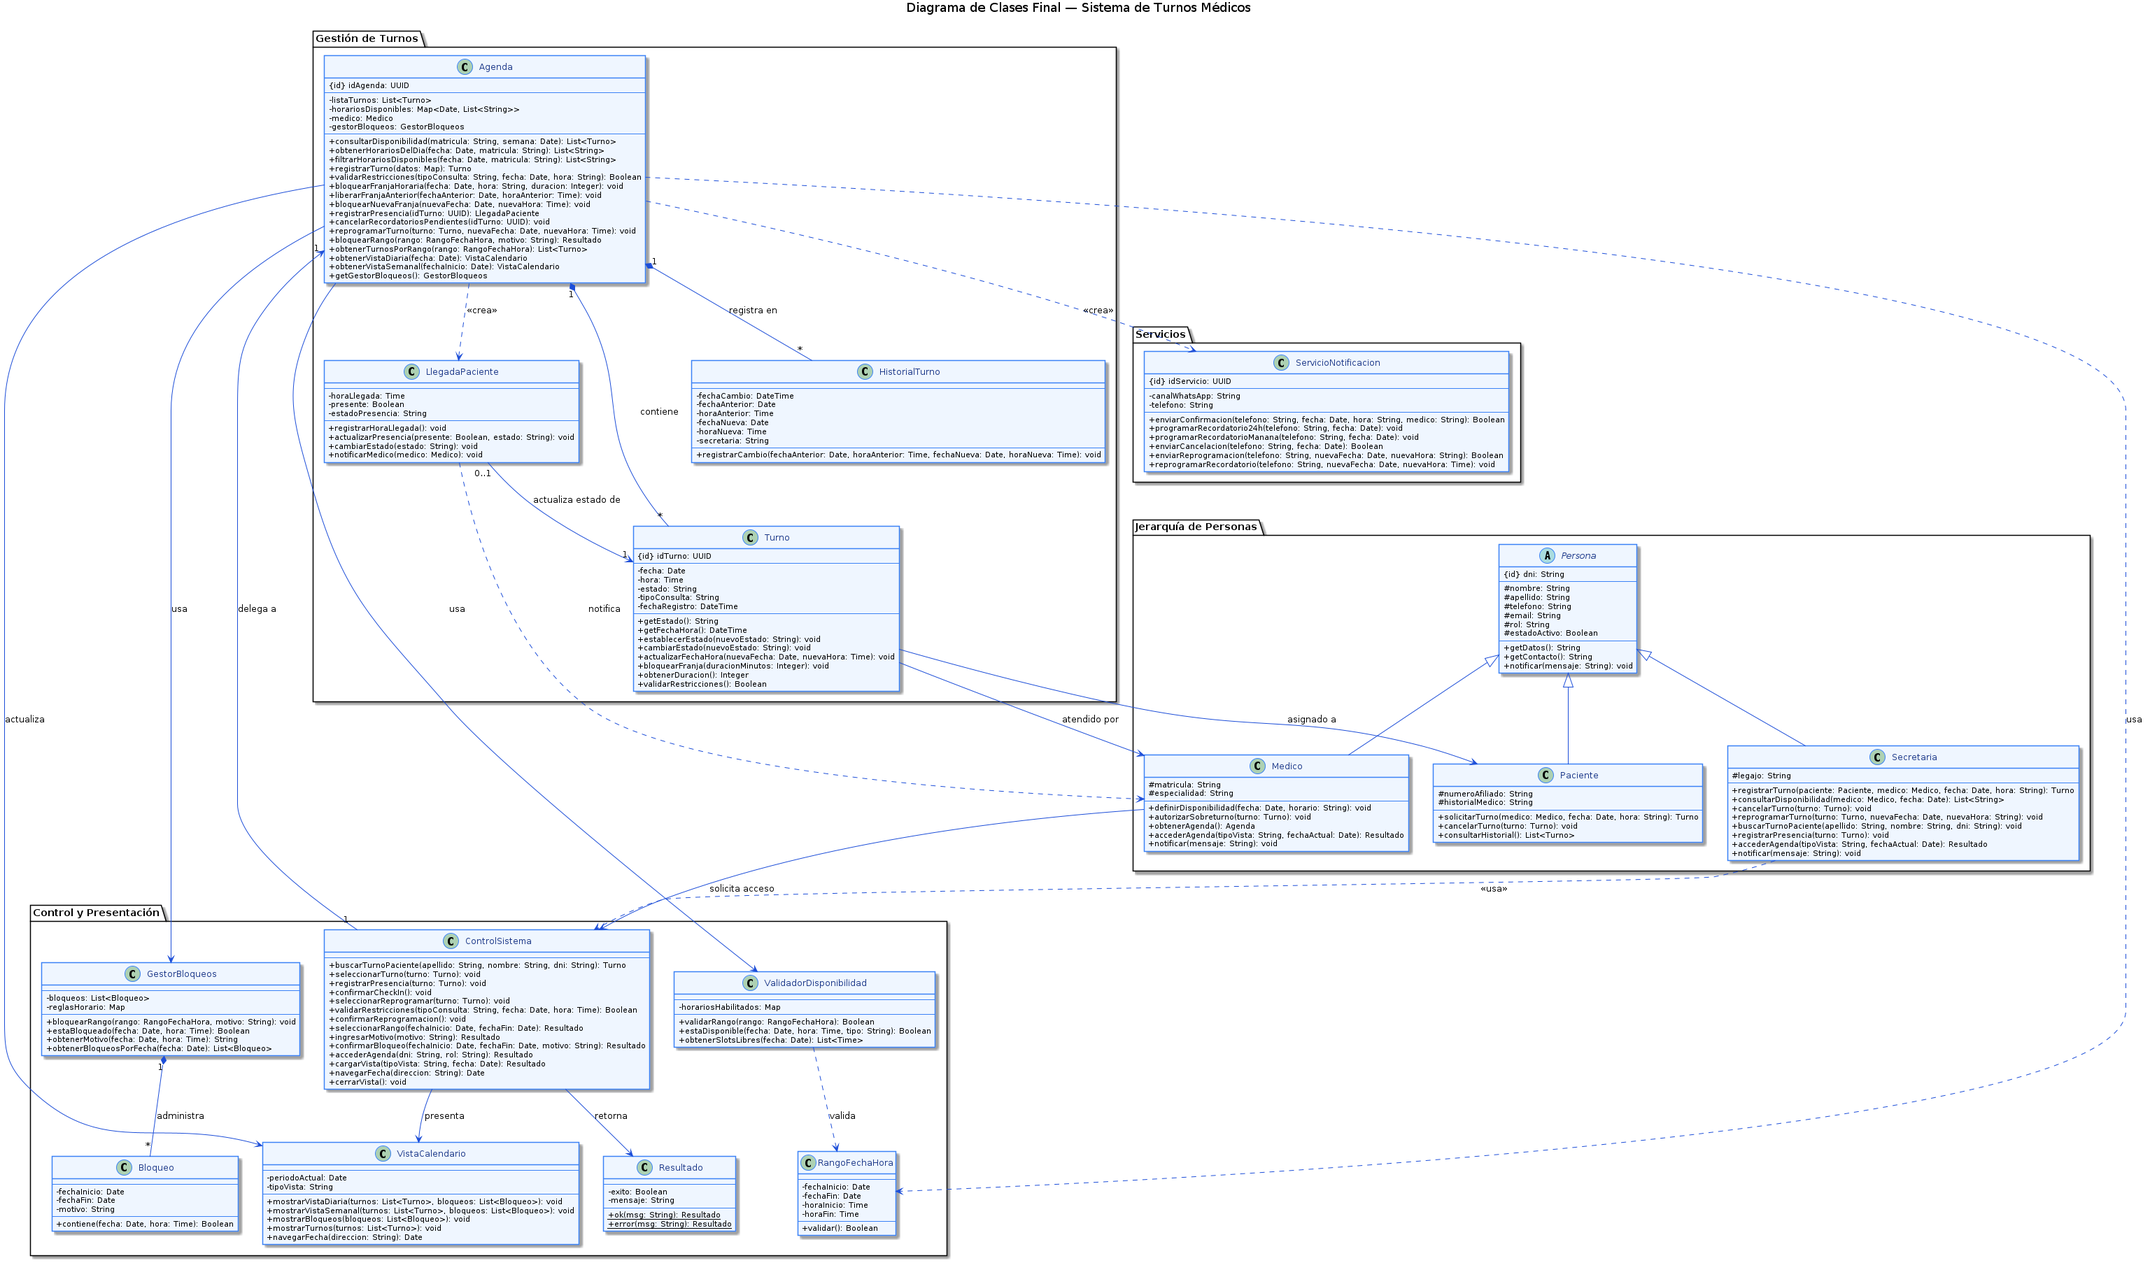
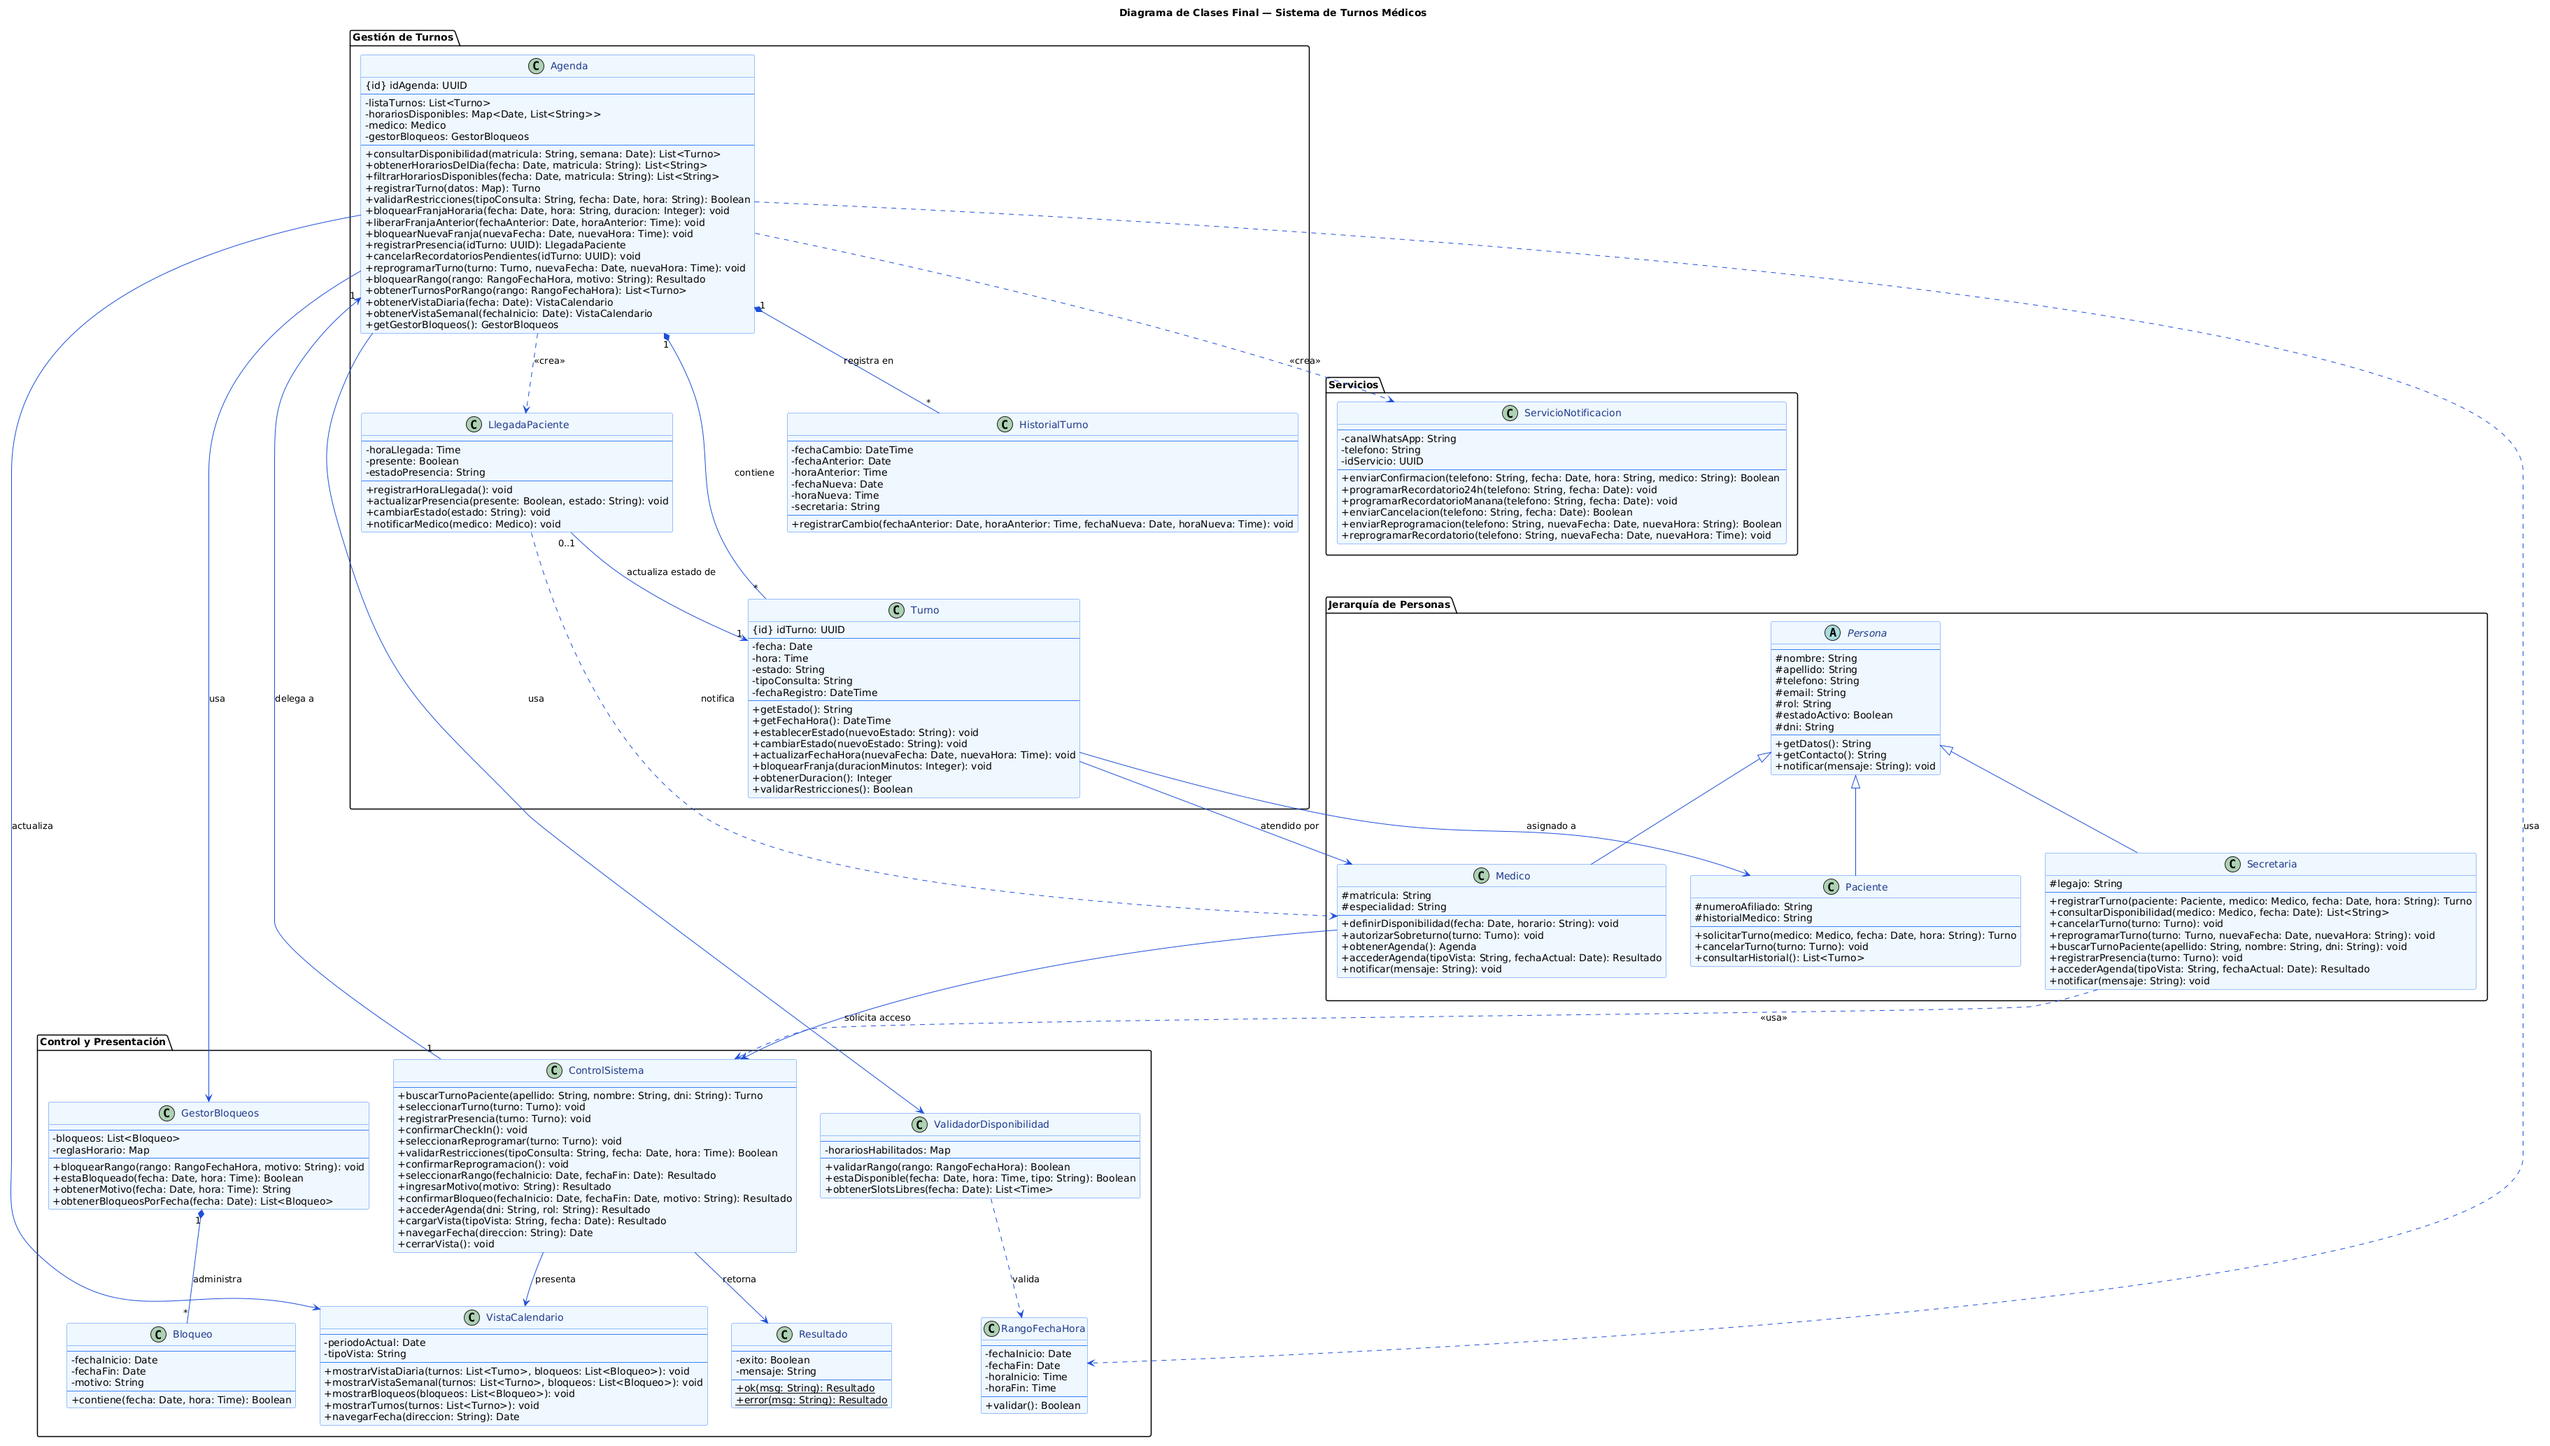
Se Corrigieron las rutas de los ejemplos del archivo pilares-poo.md y el error de poner ID en el diagrama de clases

Changed region(s): [[0.125, 0.0, 0.9997, 0.7132], [0.0, 0.6822, 0.4686, 1.0], [0.0, 0.5581, 0.0312, 0.5891]]

diff --git a/anexos/analisis-funcional/pilares-poo.md b/anexos/analisis-funcional/pilares-poo.md
@@ -10,13 +10,13 @@
 
 La clase `Turno` encapsula sus atributos internos (`fecha`, `hora`, `estado`, `tipoConsulta`, `fechaRegistro`) con visibilidad privada. Ninguna clase externa puede modificar el estado del turno directamente: debe invocar `establecerEstado(nuevoEstado)` o `cambiarEstado(nuevoEstado)`, que son los únicos puntos de acceso controlados. Esto garantiza que el estado solo pueda transitar por valores válidos (Pendiente, Presente, Cancelado, Reprogramado) y que la duración de la franja sea siempre consistente con el tipo de consulta. Un turno mal modificado desde afuera rompería la integridad del historial y los registros de llegada.
 
-![Encapsulamiento - Ejemplo 1](./capturas-pilares/poo-encapsulamiento-ejemplo-1.png)
+![Encapsulamiento - Ejemplo 1](../../diagramas/01-diagrama-clases/capturas-pilares/poo-encapsulamiento-ejemplo-1.png)
 
 **Ejemplo 2 — GestorBloqueos:**
 
 `GestorBloqueos` encapsula la colección interna de bloqueos (`bloqueos: List<Bloqueo>`) y las reglas horarias (`reglasHorario`) como atributos privados. Las clases que necesitan saber si una franja está bloqueada (como `Agenda` o `ValidadorDisponibilidad`) solo invocan `estaBloqueado(fecha, hora)` u `obtenerMotivo(fecha, hora)`, sin acceder nunca a la lista interna. Esto permite modificar la estructura de almacenamiento de bloqueos sin impactar a las clases colaboradoras, lo que es crítico en el dominio porque las reglas de bloqueo pueden cambiar (vacaciones, feriados, licencias) sin afectar la lógica de la agenda.
 
-![Encapsulamiento - Ejemplo 2](./capturas-pilares/poo-encapsulamiento-ejemplo-2.png)
+![Encapsulamiento - Ejemplo 2](../../diagramas/01-diagrama-clases/capturas-pilares/poo-encapsulamiento-ejemplo-2.png)
 
 ---
 
@@ -28,13 +28,13 @@ La clase `Turno` encapsula sus atributos internos (`fecha`, `hora`, `estado`, `t
 
 `Medico` hereda de `Persona` los atributos de identidad y contacto (`nombre`, `apellido`, `dni`, `telefono`, `email`, `rol`, `estadoActivo`) y los métodos `getDatos()`, `getContacto()` y `notificar()`. Sobre esa base, agrega sus propios atributos (`matricula`, `especialidad`) y métodos específicos de su rol: `definirDisponibilidad()`, `autorizarSobreturno()` y `obtenerAgenda()`. La relación tiene sentido en el dominio porque un médico es ante todo una persona del sistema con datos personales compartidos, pero además tiene responsabilidades que ningún otro rol comparte: solo él puede autorizar sobreturnos y es identificado por su matrícula profesional.
 
-![Herencia - Ejemplo 1](./capturas-pilares/poo-herencia-ejemplo-1.png)
+![Herencia - Ejemplo 1](../../diagramas/01-diagrama-clases/capturas-pilares/poo-herencia-ejemplo-1.png)
 
 **Ejemplo 2 — Persona → Secretaria:**
 
 `Secretaria` hereda de `Persona` los mismos datos de identidad y agrega `legajo` como propiedad propia y métodos de gestión de turnos: `registrarTurno()`, `cancelarTurno()`, `reprogramarTurno()`, `consultarDisponibilidad()`, `registrarPresencia()` y `accederAgenda()`. La relación tiene sentido porque la secretaria opera el sistema con su propia identidad laboral (legajo), pero comparte con todos los demás roles la necesidad de estar identificada en el sistema (nombre, DNI, teléfono). Su especialización expande el contrato de Persona sin contradecirlo.
 
-![Herencia - Ejemplo 2](./capturas-pilares/poo-herencia-ejemplo-2.png)
+![Herencia - Ejemplo 2](../../diagramas/01-diagrama-clases/capturas-pilares/poo-herencia-ejemplo-2.png)
 
 ---
 
@@ -47,13 +47,13 @@ La clase `Turno` encapsula sus atributos internos (`fecha`, `hora`, `estado`, `t
 El método `notificar(mensaje: String)` está definido en `Persona` y sobreescrito en `Paciente` y `Medico` con comportamiento diferente. En `Paciente`, `notificar()` delega en `ServicioNotificacion` para enviar la confirmación por WhatsApp al teléfono del paciente (RF7).
 En `Medico`, `notificar()` publica una alerta en el panel médico del sistema. Esto permite que `LlegadaPaciente`, al ejecutar `notificarMedico()`, invoque `medico.notificar()` sin conocer el canal concreto, y que `ServicioNotificacion` invoque `paciente.notificar()` de la misma forma. Agregar un nuevo canal de notificación por rol no requiere modificar la lógica de negocio que invoca la notificación.
 
-![Polimorfismo - Ejemplo 1](./capturas-pilares/poo-polimorfismo-ejemplo-1.png)
+![Polimorfismo - Ejemplo 1](../../diagramas/01-diagrama-clases/capturas-pilares/poo-polimorfismo-ejemplo-1.png)
 
 **Ejemplo 2 — notificar(mensaje) en Secretaria vs Paciente:**
 
 En `Secretaria`, `notificar()` envía una alerta al sistema de gestión administrativo, mientras que en `Paciente` envía el mensaje por WhatsApp, el mismo canal que usa `ServicioNotificacion` en el resto del sistema (RF7). El `ServicioNotificacion` puede invocar `persona.notificar()` de forma uniforme sobre cualquier subclase y cada una resolverá el canal correcto según su rol. Esto respeta el principio LSP documentado en el proyecto: todas las subclases cumplen la postcondición de que el destinatario recibe el mensaje, sin importar el canal específico de cada una.
 
-![Polimorfismo - Ejemplo 2](./capturas-pilares/poo-polimorfismo-ejemplo-2.png)
+![Polimorfismo - Ejemplo 2](../../diagramas/01-diagrama-clases/capturas-pilares/poo-polimorfismo-ejemplo-2.png)
 
 ---
 
@@ -65,10 +65,10 @@ En `Secretaria`, `notificar()` envía una alerta al sistema de gestión administ
 
 `Agenda` abstrae toda la complejidad de la gestión de disponibilidad horaria. Las clases que necesitan consultar, registrar o bloquear turnos solo invocan métodos como `consultarDisponibilidad()`, `registrarTurno()` o `bloquearRango()`. Detrás, `Agenda` coordina internamente la colección de turnos, el `GestorBloqueos`, el `ValidadorDisponibilidad` y la `VistaCalendario`. Las clases colaboradoras no necesitan conocer esa complejidad: solo piden una operación de negocio y `Agenda` la resuelve de forma centralizada, respetando RNF5 (único componente que controla la gestión de turnos).
 
-![Abstracción - Ejemplo 1](./capturas-pilares/poo-abstraccion-ejemplo-1.png)
+![Abstracción - Ejemplo 1](../../diagramas/01-diagrama-clases/capturas-pilares/poo-abstraccion-ejemplo-1.png)
 
 **Ejemplo 2 — ControlSistema:**
 
 `ControlSistema` abstrae la coordinación de los flujos de negocio del sistema. Cuando `Secretaria` necesita registrar un check-in, solo invoca `controlSistema.registrarPresencia(turno)`. Detrás, `ControlSistema` delega en `Agenda`, que a su vez crea `LlegadaPaciente`, actualiza el estado del `Turno` y cancela recordatorios pendientes. La `Secretaria` no conoce esa cadena de colaboraciones: interactúa con una interfaz simple que oculta la complejidad del flujo interno, respetando el principio de separación de responsabilidades entre la presentación y la lógica de dominio.
 
-![Abstracción - Ejemplo 2](./capturas-pilares/poo-abstraccion-ejemplo-2.png)
+![Abstracción - Ejemplo 2](../../diagramas/01-diagrama-clases/capturas-pilares/poo-abstraccion-ejemplo-2.png)

diff --git a/anexos/analisis-funcional/02-caso-de-uso-registrar-checkin.md b/anexos/analisis-funcional/02-caso-de-uso-registrar-checkin.md
@@ -9,7 +9,7 @@ Actores: Secretaria, Médico.
 Objetivo: Registrar el horario real en la que el paciente se presenta en recepción para que el Médico pueda visualizarlo como "presente" en el sistema.
 
  ### **Pasos desempenados (ruta principal)** | **Informacion para los pasos** |
-|---|---|
+|:---|:---|
 | 1. El paciente se presenta en recepcion. | Evento fisico que inicia el flujo. |
 | 2. La secretaria busca el turno del paciente en la agenda. | Busqueda por nombre, apellido o DNI del paciente. |
 | 3. La secretaria selecciona el turno correspondiente. | Turno en estado "Pendiente" para la fecha actual. |
@@ -72,7 +72,7 @@ Objetivo: Registrar el horario real en la que el paciente se presenta en recepci
 | Clase | Responsabilidad (según tarjeta CRC) | Tarjeta CRC |
 |-------|-------------------------------------|-------------|
 | Secretaria | Registrar turnos; cancelar o reprogramar turnos | [05-tarjeta-crc-secretaria.md](../../herramientas-agile/tarjetas-crc/05-tarjeta-crc-secretaria.md) |
-| ControlSistema | Coordinar el registro de check-in | [08-tarjeta-crc-control-sisitemas.md](../../herramientas-agile/tarjetas-crc/08-tarjeta-crc-control-sisitemas.md) |
+| ControlSistema | Coordinar el registro de check-in | [08-tarjeta-crc-control-sisitemas.md](../../herramientas-agile/tarjetas-crc/08-tarjeta-crc-control-sistema.md) |
 | Agenda | Registrar turnos; gestionar disponibilidad | [04-tarjeta-crc-agenda.md](../../herramientas-agile/tarjetas-crc/04-tarjeta-crc-agenda.md) |
 | Turno | Registrar turno; confirmar turno; puede cambiar su estado | [03-tarjeta-crc-turno.md](../../herramientas-agile/tarjetas-crc/03-tarjeta-crc-turno.md) |
 | LlegadaPaciente | Registrar hora real de llegada; indicar presencia del paciente | [06-tarjeta-crc-llegada-paciente.md](../../herramientas-agile/tarjetas-crc/06-tarjeta-crc-llegada-paciente.md) |
